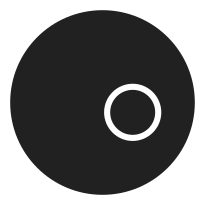
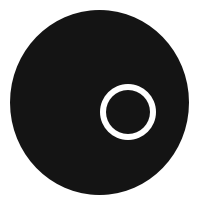
Playing around with colours again

diff --git a/canvas-particle-emitter-v04 .2-404-not-found/index.html b/canvas-particle-emitter-v04 .2-404-not-found/index.html
@@ -29,8 +29,8 @@ More info: https://github.com/corenominal/web-junk
 				<svg id="corenominal-logo" class="corenominal-logo" xmlns:rdf="http://www.w3.org/1999/02/22-rdf-syntax-ns#" xmlns="http://www.w3.org/2000/svg" height="28.438mm" width="29.219mm" version="1.1" xmlns:cc="http://creativecommons.org/ns#" xmlns:dc="http://purl.org/dc/elements/1.1/" viewBox="0 0 103.53185 100.76538">
 				 <g id="layer1" transform="translate(-91.091 -90.551)">
 				  <g id="g4846" transform="translate(-187.14 97.571)">
-				   <path id="path4818-9" d="m356.2 53.759a38.252 37.907 0 0 1 -38.252 37.907 38.252 37.907 0 0 1 -38.252 -37.907 38.252 37.907 0 0 1 38.252 -37.907 38.252 37.907 0 0 1 38.252 37.907z" fill="#212121"/>
-				   <path id="path4818" d="m380.24 4.0923a9.6627 9.5756 0 0 1 -9.6627 9.5756 9.6627 9.5756 0 0 1 -9.6627 -9.5756 9.6627 9.5756 0 0 1 9.6627 -9.5756 9.6627 9.5756 0 0 1 9.6627 9.5756z" fill="#212121"/>
+				   <path id="path4818-9" d="m356.2 53.759a38.252 37.907 0 0 1 -38.252 37.907 38.252 37.907 0 0 1 -38.252 -37.907 38.252 37.907 0 0 1 38.252 -37.907 38.252 37.907 0 0 1 38.252 37.907z" fill="#141414"/>
+				   <path id="path4818" d="m380.24 4.0923a9.6627 9.5756 0 0 1 -9.6627 9.5756 9.6627 9.5756 0 0 1 -9.6627 -9.5756 9.6627 9.5756 0 0 1 9.6627 -9.5756 9.6627 9.5756 0 0 1 9.6627 9.5756z" fill="#141414"/>
 				   <g id="g4837" fill="#fff">
 				    <path id="path4138-5-2-6" d="m318.07 14.069c-21.978 0-39.838 17.859-39.838 39.838 0 21.978 17.859 39.838 39.838 39.838 21.978 0 39.838-17.86 39.838-39.838s-17.859-39.838-39.838-39.838zm0 3.9532c19.842 0 35.884 16.043 35.884 35.884 0 19.842-16.043 35.885-35.884 35.885-19.842 0-35.884-16.043-35.884-35.885s16.043-35.884 35.884-35.884z"/>
 				    <path id="path4172-8-5-7" d="m370.65-7.0205c-6.1257 0-11.117 4.9911-11.117 11.117 0 6.1257 4.9911 11.118 11.117 11.118 6.1257 0 11.117-4.9918 11.117-11.118 0-6.1257-4.9911-11.117-11.117-11.117zm0 2.3719c4.8438 0 8.7449 3.901 8.7449 8.7449 0 4.8438-3.901 8.7457-8.7449 8.7457s-8.7449-3.9018-8.7449-8.7457 3.901-8.7449 8.7449-8.7449z"/>

diff --git a/lib/css/junk.css b/lib/css/junk.css
@@ -33,7 +33,7 @@ body.no-cursor {
 }
 
 .junk-page-inverted {
-	background: #2d2d2d;
+	background: #141414;
 }
 
 .junk-info {
@@ -42,10 +42,7 @@ body.no-cursor {
 	top: 0px;
 	left: 0px;
 	width: 100%;
-	-webkit-box-shadow: 0px 2px 6px 0px rgba(0,0,0,0.4);
-	-moz-box-shadow: 0px 2px 6px 0px rgba(0,0,0,0.4);
-	box-shadow: 0px 2px 6px 0px rgba(0,0,0,0.4);
-	background: #2d2d2d;
+	background: #141414;
 	color: #fff;
 }
 
@@ -61,7 +58,7 @@ body.no-cursor {
 	font-weight: normal;
 	margin: 10px 40px 4px 0px;
 	display: inline-block;
-	border-bottom: 1px solid #2d2d2d;
+	border-bottom: 1px solid #141414;
 }
 
 .junk-info h2:hover {
@@ -86,7 +83,7 @@ body.no-cursor {
 .junk-info ul li a {
 	padding: 0;
 	margin-right: 20px;
-	border-bottom: 1px solid #2d2d2d;
+	border-bottom: 1px solid #141414;
 }
 
 .junk-info ul li a:hover {
@@ -100,10 +97,7 @@ body.no-cursor {
 	padding: 10px;
 	display:none;
 	cursor: pointer;
-	-webkit-box-shadow: 0px 2px 6px 0px rgba(0,0,0,0.4);
-	-moz-box-shadow: 0px 2px 6px 0px rgba(0,0,0,0.4);
-	box-shadow: 0px 2px 6px 0px rgba(0,0,0,0.4);
-	background: #2d2d2d;
+	background: #141414;
 	color: #fff;
 }
 
@@ -124,7 +118,7 @@ body.no-cursor {
     resize: none;
     box-sizing: border-box;
     background: #fff;
-	color: #2d2d2d;
+	color: #141414;
 }
 
 .code:focus {
@@ -133,11 +127,11 @@ body.no-cursor {
 }
 
 .code::selection {
-  background: #2d2d2d;
+  background: #141414;
   color: #fff;
 }
 
 .code::-moz-selection {
-  background: #2d2d2d;
+  background: #141414;
   color: #fff;
 }

diff --git a/lib/html/junk-info.html b/lib/html/junk-info.html
@@ -6,8 +6,8 @@
         <defs></defs>
         <g id="Page-1" stroke="none" stroke-width="1" fill="none" fill-rule="evenodd">
             <g id="web-logo">
-                <ellipse id="Oval" fill="#2D2D2D" cx="18" cy="18" rx="18" ry="18"></ellipse>
-                <circle id="Oval" stroke="#FFFFFF" stroke-width="2" fill="#2D2D2D" cx="18" cy="18" r="15.6521739"></circle>
+                <ellipse id="Oval" fill="#141414" cx="18" cy="18" rx="18" ry="18"></ellipse>
+                <circle id="Oval" stroke="#FFFFFF" stroke-width="2" fill="#141414" cx="18" cy="18" r="15.6521739"></circle>
                 <g id="g4300-5" transform="translate(5.478261, 6.730435)" fill="#FFFFFF">
                     <path d="M15.3243872,0.150896549 C10.5946864,0.150896549 6.74106679,4.01182765 6.74106679,8.75052274 C6.74106679,13.4892086 10.5946864,17.3507467 15.3243872,17.3507467 C20.0540881,17.3507467 23.9077076,13.4892086 23.9077076,8.75052274 C23.9077076,4.01182765 20.0540881,0.150896549 15.3243872,0.150896549 Z M15.3243872,1.98572967 C19.0643411,1.98572967 22.0763444,5.00345487 22.0763444,8.75052274 C22.0763444,12.4975814 19.0643411,15.5159043 15.3243872,15.5159043 C11.5844242,15.5159043 8.57243006,12.4975814 8.57243006,8.75052274 C8.57243006,5.00345487 11.5844242,1.98572967 15.3243872,1.98572967 Z" id="path4172-8-2"></path>
                     <polygon id="path4174-2-6" points="8.91699756 13.8751776 0.675867424 21.2145377 1.89200961 22.5858991 10.1331397 15.2465298 8.91699756 13.8751776"></polygon>

diff --git a/canvas-stripes-v01-video-intro/index.html b/canvas-stripes-v01-video-intro/index.html
@@ -37,7 +37,7 @@ More info: https://github.com/corenominal/web-junk
 				  </rdf:RDF>
 				 </metadata>
 				 <g id="layer1" transform="translate(-231 -446.36)">
-				  <ellipse id="path3421" rx="130.5" ry="127.5" cy="574.86" cx="362.5" fill="#212121"/>
+				  <ellipse id="path3421" rx="130.5" ry="127.5" cy="574.86" cx="362.5" fill="#141414"/>
 				  <g id="g4300-3" transform="matrix(1.5217 0 0 1.5217 -13.448 -217)" fill="#fff">
 				   <path id="path4138-5-2" d="m237.02 485.38c-18.489 0-33.512 15.023-33.512 33.512s15.023 33.513 33.512 33.513 33.512-15.024 33.512-33.513-15.023-33.512-33.512-33.512zm0 3.3255c16.691 0 30.187 13.495 30.187 30.187 0 16.691-13.495 30.187-30.187 30.187-16.691 0-30.187-13.496-30.187-30.187s13.495-30.187 30.187-30.187z"/>
 				   <path id="path4172-8-5" d="m281.25 467.63c-5.1531 0-9.3516 4.1986-9.3516 9.3516 0 5.1531 4.1986 9.3523 9.3516 9.3523 5.1531 0 9.3516-4.1992 9.3516-9.3523s-4.1986-9.3516-9.3516-9.3516zm0 1.9953c4.0747 0 7.3563 3.2816 7.3563 7.3563s-3.2816 7.357-7.3563 7.357-7.3563-3.2823-7.3563-7.357 3.2816-7.3563 7.3563-7.3563z"/>

diff --git a/canvas-particle-emitter-v05/js/main.js b/canvas-particle-emitter-v05/js/main.js
@@ -41,7 +41,7 @@ $(document).ready(function()
 			vy = Math.random() * 6 - 12,
 			energy = vy / 1.2,
 			size = particleSize,
-			colour = 'rgba( 33, 33, 33, 0.' + Math.floor((Math.random() * 5) + 3) + ' )',
+			colour = 'rgba( 20, 20, 20, 0.' + Math.floor((Math.random() * 5) + 3) + ' )',
 			life = 0,
 			death = Math.random() * 300 + 10;
 
@@ -97,7 +97,7 @@ $(document).ready(function()
 			c.fillStyle = particles[i].colour;
 			if( particles[i].life < 2 )
 			{
-				c.fillStyle = 'rgba( 33, 33, 33, 0 )';
+				c.fillStyle = 'rgba( 20, 20, 20, 0 )';
 			}
 			c.beginPath();
 			c.arc( particles[i].x, particles[i].y, particles[i].size / 2, 0, 2*PI );

diff --git a/canvas-particle-emitter-v06/js/main.js b/canvas-particle-emitter-v06/js/main.js
@@ -86,11 +86,11 @@ $(document).ready(function()
 			c.beginPath();
 
 			c.shadowBlur = 150;
-			c.shadowColor = 'rgba( 33, 33, 33, 0.8 )';
+			c.shadowColor = 'rgba( 20, 20, 20, 0.8 )';
 
 			var grd=c.createRadialGradient( particles[i].x, particles[i].y, 1, particles[i].x, particles[i].y, particles[i].size / 2.2);
-			grd.addColorStop( 0, 'rgba( 33, 33, 33, 1 )' );
-			grd.addColorStop( 1, 'rgba( 33, 33, 33, 0 )' );			
+			grd.addColorStop( 0, 'rgba( 20, 20, 20, 1 )' );
+			grd.addColorStop( 1, 'rgba( 20, 20, 20, 0 )' );			
 
 			c.fillStyle = grd;
 			c.arc( particles[i].x, particles[i].y, particles[i].size / 2, 0, 2*PI );

diff --git a/canvas-animation-video-outro-v01/js/main.js b/canvas-animation-video-outro-v01/js/main.js
@@ -24,7 +24,7 @@ $(document).ready(function()
 		var canvas = document.getElementById( 'spacecanvas' );
 		var c = canvas.getContext('2d');
 		// Initial fill
-		c.fillStyle = 'rgba( 33, 33, 33, 1 )';
+		c.fillStyle = 'rgba( 20, 20, 20, 1 )';
 		c.fillRect(0,0,w,h);
 
 		var fini = false;
@@ -168,7 +168,7 @@ $(document).ready(function()
 		function renderer()
 		{
 			// Clear the canvas
-			c.fillStyle = 'rgba( 33, 33, 33, 1 )';
+			c.fillStyle = 'rgba( 20, 20, 20, 1 )';
 			c.fillRect( 0, 0, w, h );
 
 			// Draw stars

diff --git a/canvas-particle-emitter-v04 .2-404-not-found/js/main.js b/canvas-particle-emitter-v04 .2-404-not-found/js/main.js
@@ -26,7 +26,7 @@ $(document).ready(function()
 	var maxParticleSize = 10;
 
 	// Initial fill
-	c.fillStyle = 'rgba( 33, 33, 33, 1 )';
+	c.fillStyle = 'rgba( 20, 20, 20, 1 )';
 	c.fillRect( 0, 0, canvasWidth, canvasHeight );
 
 	function particle()
@@ -72,7 +72,7 @@ $(document).ready(function()
 
 	function renderer()
 	{
-		c.fillStyle = 'rgba( 33, 33, 33, 0.4 )';
+		c.fillStyle = 'rgba( 20, 20, 20, 0.4 )';
 		c.fillRect( 0, 0, canvasWidth, canvasHeight );
 
 		for (i = 0; i < particles.length; i++)

diff --git a/canvas-particle-emitter-v04/js/main.js b/canvas-particle-emitter-v04/js/main.js
@@ -26,7 +26,7 @@ $(document).ready(function()
 	var maxParticleSize = 5;
 
 	// Initial fill
-	c.fillStyle = 'rgba( 33, 33, 33, 1 )';
+	c.fillStyle = 'rgba( 20, 20, 20, 1 )';
 	c.fillRect( 0, 0, canvasWidth, canvasHeight );
 
 	function particle()
@@ -80,7 +80,7 @@ $(document).ready(function()
 
 	function renderer()
 	{
-		c.fillStyle = 'rgba( 33, 33, 33, 0.4 )';
+		c.fillStyle = 'rgba( 20, 20, 20, 0.4 )';
 		c.fillRect( 0, 0, canvasWidth, canvasHeight );
 
 		for (i = 0; i < particles.length; i++)

diff --git a/canvas-collision-detection-v01/js/main.js b/canvas-collision-detection-v01/js/main.js
@@ -26,7 +26,7 @@ $(document).ready(function()
 	var noOfStars = 80;
 
 	// Initial fill
-	c.fillStyle = 'rgba( 33, 33, 33, 1 )';
+	c.fillStyle = 'rgba( 20, 20, 20, 1 )';
 	c.fillRect( 0, 0, canvasWidth, canvasHeight );
 
 	// Images
@@ -87,7 +87,7 @@ $(document).ready(function()
 	function renderer()
 	{
 		// Clear the canvas
-		c.fillStyle = 'rgba( 33, 33, 33, 1 )';
+		c.fillStyle = 'rgba( 20, 20, 20, 1 )';
 		c.fillRect( 0, 0, canvasWidth, canvasHeight );
 
 		// Draw stars

diff --git a/canvas-img-rotation-v01/js/main.js b/canvas-img-rotation-v01/js/main.js
@@ -23,7 +23,7 @@ $(document).ready(function()
 		var c = canvas.getContext('2d');
 
 		// Initial fill
-		c.fillStyle = 'rgba( 45, 45, 45, 1 )';
+		c.fillStyle = 'rgba( 20, 20, 20, 1 )';
 		c.fillRect( 0, 0, w, h );
 
 		// The Image
@@ -48,7 +48,7 @@ $(document).ready(function()
 		function renderer()
 		{
 			// Clear the canvas
-			c.fillStyle = 'rgba( 45, 45, 45, 1 )';
+			c.fillStyle = 'rgba( 20, 20, 20, 1 )';
 			c.fillRect( 0, 0, w, h );
 
 			// Finish the animation

diff --git a/canvas-particle-emitter-v03/js/main.js b/canvas-particle-emitter-v03/js/main.js
@@ -39,7 +39,7 @@ $(document).ready(function()
 			vx = Math.random() * 10 - 5,
 			vy = Math.random() * 10 - 5,
 			size = Math.floor( ( Math.random() * maxParticleSize ) + 2 ),
-			colour = 'rgba( 33, 33, 33, 0.' + Math.floor((Math.random() * 5) + 3) + ' )',
+			colour = 'rgba( 20, 20, 20, 0.' + Math.floor((Math.random() * 5) + 3) + ' )',
 			life = 0,
 			death = Math.random() * 500 + 10;
 
